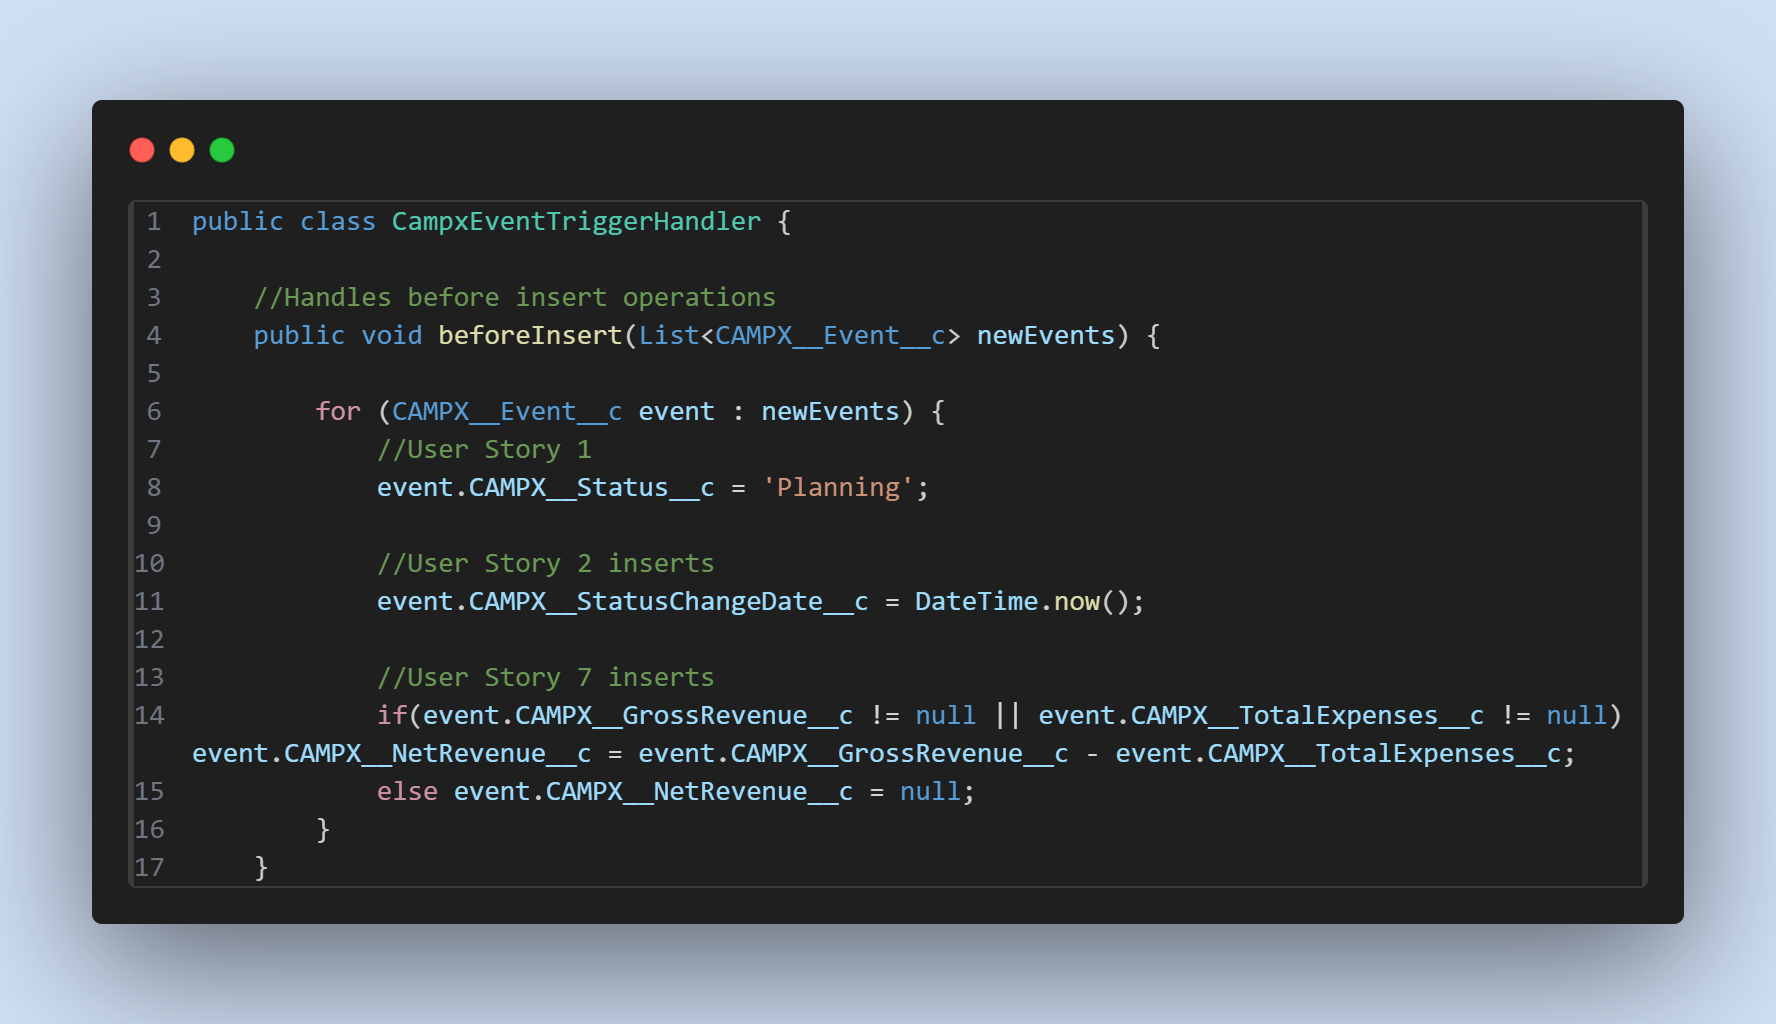
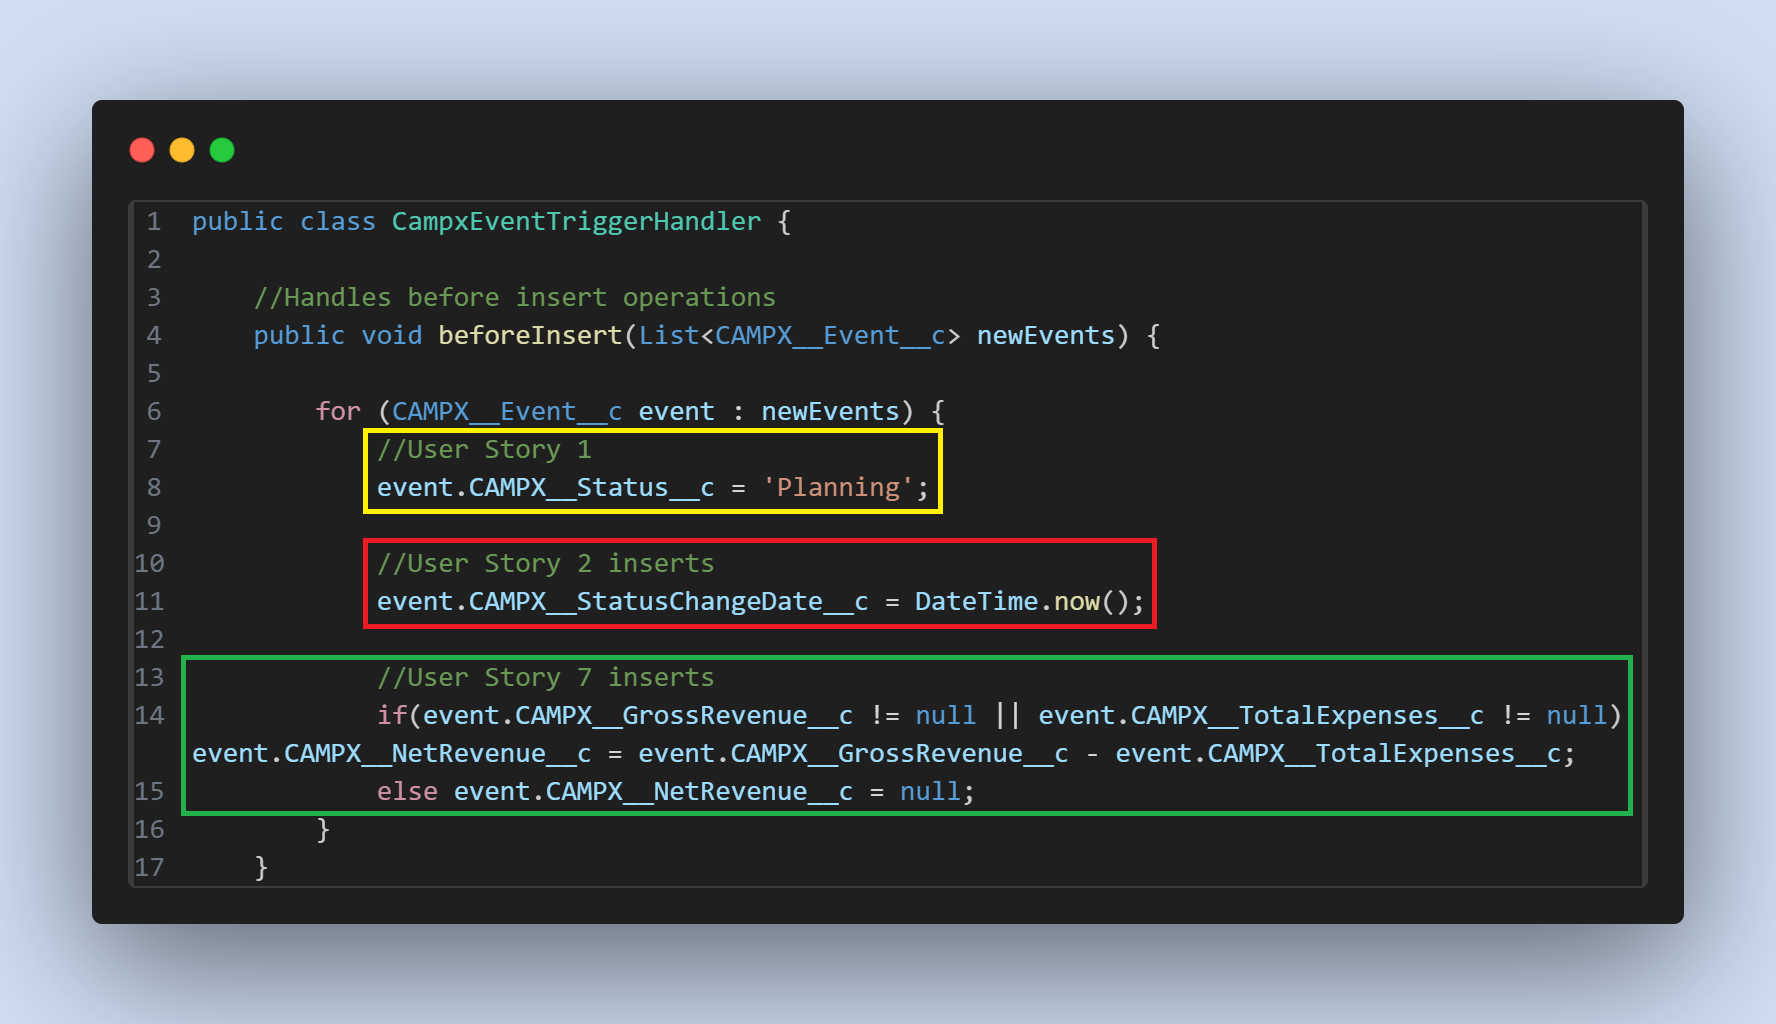
First additions to the Salesforce Developer Project  page

diff --git a/Main/HTML/SalesforceDeveloperProjects.html b/Main/HTML/SalesforceDeveloperProjects.html
@@ -11,209 +11,65 @@
   <body>
     <header>
       <a href="..\..\index.html">Back</a>
-      <h1>My Journey as a Salesforce Developer</h1>
-      <h3>Tab Under Construction</h3>
-      <!--<ol id="contents_table">
-        <li><a href="#Transactional-Function">Transactional Function within Salesforce Org</a></li>
-        <li><a href="#goaling">Transitioning Goaling into Salesforce Org (Active Project)</a></li>
-        <li><a href="#Personnel-Record">Personnel Management Integrated into Salesforce Org</a></li>
-        <li><a href="#on-or-off-production">National NCO Dashboard with On/Off Production Functionality</a></li>
+      <h1>Apex Projects</h1>
+      <h3>EventCloud - Event Management System</h3>
+      <ol id="contents_table">
+        <li><a href="#Project-Overview">Project Overview</a></li>
+        <li><a href="#User-Story1">User Story 1: Initializing Event Status upon Creation</a></li>
+        <li><a href="#User-Story2">User Story 2: Capturing Event Status Change Timestamp</a></li>
+        <li><a href="#on-or-off-production">User Story 3: Defaulting Sponsor Status to 'Pending' on Creation</a></li>
+        <li><a href="#on-or-off-production">User Story 4: Enforcing Email Requirements for Sponsor Creation</a></li>
+        <li><a href="#on-or-off-production">User Story 5: Updating Sponsor Tier Based on Contribution Amount</a></li>
+        <li><a href="#on-or-off-production">User Story 6: Conditional Sponsor Status Update Based on Event Association</a></li>
+        <li><a href="#on-or-off-production">User Story 7: Automatic Update of Net Revenue on Financial Changes</a></li>
+        <li><a href="#on-or-off-production">User Story 8: Updating Event Gross Revenue upon Sponsor Acceptance</a></li>
+        <li><a href="#on-or-off-production">User Story 9: Adjusting Event Gross Revenue for Cancelled Sponsorships or Event Changes</a></li>
       </ol>
     </header>
     <article>
-      <h2 class="project-title" id="Transactional-Function">Transactional Function within Salesforce Org</h2>
-      <h3>The Problem</h3>
-      <p>One of Navy Recruiting Command's (NRC) legacy systems, PRIDE, is a transactional system. This means that throughout the life cycle of an applicant's 
-        onboarding journey with the Navy, PRIDE logs it. It keeps a log of when they joined the Navy and what their job, onboarding start date and ship date
-        are and any changes that may occur to the applicant or their status like changing of jobs, changing of ship dates or even cancelling their contract
-        all together. The problem is with NRC's Salesforce Org, it is NOT transactional like PRIDE is. That means every message PRIDE sends into Salesforce 
-        to update an applicant, the previous data is lost. If a job changes, the previous job is lost and same for ship dates. My task was to create a 
-        transactional feature within Salesforce to mirror PRIDE</p>
-        <h3>The Solution</h3>
-        <p>At the time, NRC was not utilizing Salesforce's Out-of-the-Box Opportunity object yet. My proposal was to bring in Opportunities since they
-          are so closesly tied with Accounts (which NRC uses as Person Accounts to keep applicant records). I made it transactional by utilizing 5 different
-          flows, each being a record triggered flow.</p>
-        <img id="transaction_related_list" src="..\Images\Opportunity Related List.PNG">
-        <h3>The Flows</h3>
-        <img class="transaction_flow" src="..\Images\Onboarding Transaction Flow.PNG">
-        <img class="transaction_flow" src="..\Images\Reclass Transaction Flow.PNG">
-        <img class="transaction_flow2" src="..\Images\Roll-In-Out Transaction Flow.PNG">
-        <img class="transaction_flow" src="..\Images\Ship Transaction Flow.PNG">
-        <img class="transaction_flow2" src="../Images/Attrite Transaction Flow.PNG">
-        <table>
-          <tr>
-            <th><strong>Flow Name</strong></th>
-            <th><strong>Description</strong></th>
-          </tr>
-          <tr>
-            <td>Create Onboarding Transaction</td>
-            <td>This flow is triggered when an Applicant record is either created or updated 
-              to meet a Status of "Onboarding." It then gathers the necessary information from
-              the applicant record and creates an "Onboarding Transaction" record with all the
-              necessary information for trends analysis and health of the Delayed Entry Program
-              (DEP) analysis.</td>
-          </tr>
-          <tr>
-            <td>Create Reclass Transaction</td>
-            <td>This flow is triggered when an Applicant record's Program and Rate field is 
-              changed. When the change happens, however, the record needs to be in Status of 
-              "Onboarding" and the previous value of Program and Rate is NOT blank. This flow 
-              will capture BOTH the previous value for Program and Rate and the new value entered
-              for Program and Rate and enter both of them into a "Reclassification Transaction" record
-              along with other metrics used for analysis.</td>
-          </tr>
-          <tr>
-            <td>Create Roll-In/Roll-Out Transaction</td>
-            <td>This flow is triggered when an Applicant record's Enlisted Ship Date field is 
-              changed. When this change happens, however, the record needs to be in a Status of
-              "Onboarding" and the previous value of the Enlisted Ship Date field is NOT blank. 
-              Once this flow is triggered, it then needs to decide if it will be creating a 
-              "Roll-In Transaction" or a "Roll-Out Transaction." This is done by comparing the 
-              previous value for Enlisted Ship Date and the new value. If the previous value is 
-              greater than the new value, this would indicate an earlier Enlisted Ship Date meaning
-              the applicant is "Rolling In." If the previous value is lesser than the new value, this 
-              would indicate the applicant is "Rolling Out."
-            </td>
-          </tr>
-          <tr>
-            <td>Create Ship Transaction</td>
-            <td>This flow is triggered when an Applicant record's Status 
-              is changed to "Shipped." When this flow is ran, it takes 
-              pertinent data from the Applicant record to create a "Ship 
-              Transaction" record for analysis in shipping trends and 
-              seats being filled at bootcamp.</td>
-          </tr>
-          <tr>  
-            <td>Attrite Transaction Decide</td>
-            <td>This flow is triggered when the Applicant record's Status 
-              is changed to "Attrite." When an applicant "Attrites" it 
-              means they decided to quit their contract and not pursue going 
-              to bootcamp and becoming a Sailor anymore. This flow will gather 
-              necessary Attrite data from the applicant's record and create an 
-              "Attrite Transaction" record. Attrite trends are monitored very 
-              closely as the the Navy's many fleets can't be manned if Future 
-              Sailors don't ship off to bootcamp.</td>
-          </tr>
-        </table>
-        <br>
+      <h2 class="project-title" id="Project-Overview">Project Overview</h2>
+      <p>The idea behind this project is to be able to successfully solution through
+      the given problems throughout the User Stories. Each User Story is well written
+      comes with Acceptance Criteria and specific tests to verify your solution works. 
+      This project places you in the shoes of a "new hire" at EventCloud and gives you
+      the freedom to take the "clicks not code" approach, or dive into Apex and solution
+      through on the "back end". I chose to work through each User Story strictly with 
+      Apex Triggers and TriggerHandler classes. Below are the two Triggers I wrote following
+      the Trigger Handler Framework Salesforce recommends.</p>
+        <div id="Apex-Container">
+          <img id="Trigger" src="..\Images\CampxEventTrigger.PNG">
+          <img id="Trigger" src="..\Images\CampxSponsorTrigger.PNG">
+        </div>
+    </article>
+    <article>
+      <h2 class="project-title" id="User-Story1">User Story 1 (Yellow): Initializing Event Status upon Creation</h2>
+      <h3>User Story</h3>
+      <p>As an event coordinator,<br>
+      I need the system to automatically place a newly created event record into a planning status,<br>
+      So that we can start the event organization process with a clear, initial state that indicates 
+      the event is in the early stages of planning.</p>
+      <h3>Acceptance Criteria</h3>
+      <p>When a new CAMPX__Event__c record is created, the CAMPX__Status__c field should reflect the 
+        "Planning" picklist value</p>
+      <div id="Apex-Container">
+          <img id="Event-beforeInsert" src="..\Images\CampxEventTriggerHandler beforeInsert Method.png">
+      </div>  
+    </article>
+    <article>
+      <h2 class="project-title" id="User-Story2">User Story 2 (Red): Capturing Event Status Change Timestamp</h2>
+      <h3>User Story</h3>
+      <p>As an event coordinator,<br>
+        I need the system to automatically capture the current date and time whenever the status of an event changes,<br>
+        So that we can have an accurate and automatic record of when each event's status was last modified, helping in 
+        timeline tracking and accountability.</p>
+      <h3>Acceptance Criteria</h3>
+      <p>When the CAMPX__Status__c field of an CAMPX__Event__c record is edited, the CAMPX__StatusChangeDate__c 
+        field should capture the current date and time</p>
+        <div id="Apex-Container">
+          <img id="Event-beforeInsert" src="..\Images\CampxEventTriggerHandler beforeInsert Method.png">
+          <img id="Event-beforeUpdate" src="..\Images\CampxEventTriggerHandler beforeUpdate Method.png">
+        </div>
         <a href="#contents_table">Back to Top</a>
     </article>
-    <article>
-      <h2 class="project-title" id="goaling">Transitioning Goaling into Salesforce Org (Active Project)</h2>
-      <h3>The Problem</h3>
-      <p>This is the first part to a series of transitions that will eventually take the legacy NRC system called WebSTEAM into retirement. The first, and one of the biggest, aspects of this 
-        system is tracking the goal assigned to each command. Every Station, known as NRS Name, all the way up to NRC will have a goal assigned to them for each month of the fiscal year. This 
-        needs to be brought into Salesforce to present cleanly to top echelon leadership how each command is doing and if NRC will make its assigned goal and missions for the fiscal year.</p>
-      <h3>The Solution</h3>
-      <p>I went ahead and created a series of five new custom objects. Those are "NRS Goal", "Division Goal", "NTAG Goal", "Region Goal" and "NRC Goal". Each, as the object name should suggest 
-        will track either a station, division, NTAG, region or NRCs goal for any given month. NRS Goal is linked via Master-Detail Relationship to Division Goal, Division Goal is linked via 
-        another Master-Detail Relationship to NTAG Goal and NTAG goal is linked by the last Master-Detail Relationship in the chain to Region Goal. Due to the limitation of 3 Master-Detail 
-        Relationship links within a chain, I created two Lookup Relationship fields on the NRC Goal object. The first one is labelled "Region East Goal" and the second one "Region West Goal". 
-        The NRS Goal record is really the only record that will have the majority of data entered into it when creating a new record. Upon creation, each commands Statistician will have to enter 
-        a number for the station's Total Goal, Active Duty goal, Reserve goal, Nuclear contract goal, Special Warfare contract goal and a goal for contracts that got higher than a 50 on the ASVAB. 
-        After all of that is inputted, a series of Roll-Up Summary fields on the rest of the objects except for NRC Goal is utilized to calculate that respective records number for that goal. On 
-        the NRC Goal object, everything that could NOT be a Roll-Up Summary field was a Formula field instead adding up each field from the "Region East Goal" and "Region West Goal" records. A 
-        series of flows is also utilized for this solution to calculate contract attainment and goaling record association.</p>
-      <img class="goal_records" src="..\Images\NRS Goal Record.PNG">
-      <br>
-      <img class="goal_records" src="..\Images\Division Goal Record.PNG">
-      <br>
-      <img class="goal_records" src="..\Images\NTAG Goal Record.PNG">
-      <br>
-      <img class="goal_records" src="..\Images\Region Goal Record.PNG">
-      <br>
-      <img class="goal_records" src="..\Images\NRC Goal Record.PNG">
-      <h3>The Flows</h3>
-      <table>
-        <tr>
-          <th><strong>Flow Name</strong></th>
-          <th><strong>Description</strong></th>
-        </tr>
-        <tr>
-          <td>Assign NRS Goal to Transaction</td>
-          <td>This flow is triggered when an Opportunity record is created with a Type equalling either "NCO" or "Attrite". After it's triggered, it will decide on which NRS Goal record 
-            to get based on the Type of Opportunity. If it was "NCO", it grabs the the NRS Goal record with the same RSID as the Opportunity record, and the same month and fiscal year as 
-            the Onboarding Start Date field. If it was "Attrite", it does the same thing except based on the Attrite Date field. After it gets the necessary data from the Opportunity and 
-            NRS Goal records, it updates the correct Opportunity record with the correct NRS Goal record ID to associate the Lookup relationship.
-          </td>
-        </tr>
-        <tr>
-          <td>NRS Goal Number Crunch</td>
-          <td>This flow, like the last one, is triggered when an Opportunity record is created, however the Type must either be "NCO", "Attrite" or "Reclassification". IT then makes the decision 
-            on which NRS Goal record to get based on the Type of Opportunity. If the Type is "NCO", it gets the NRS Goal record based off the RSIDs matching for both records and the month and 
-            fiscal year from the Onboarding Start Date field matching the NRS Goal records. Once the record is retrieved, it will add whatever the kind of contract the Opportunity record is with 
-            whatever is currently within the Attainment fields on the NRS Goal record. This is done based on a series of IF statements nested with other IF statements, AND statements and OR 
-            statements. The next decision branch is based off of the Type "Reclassification" which will match the record based off of RSID and the month and fiscal year of the Transaction Date. 
-            The last decision branch is based off of the Type "Attrite" where it compares the RSIDs of both records and the month and fiscal year of the Attrite Date field. This branch is similar 
-            to the "NCO" branch except is subtracts numbers instead of adding them. The "Reclassification" branch does both adding and subtracting based on the contract type. After the specific 
-            branch has ran, it will take the Record ID from the NRS Goal retrieved and update the Attainment number fields with the variables filled in by the respective formulas.
-          </td>
-        </tr>
-        <tr>
-          <td>Same Day Transaction Goal Number Crunch</td>
-          <td>This flow is triggered when an Opportunity record is DELETED with a type of "NCO". It will perform pretty much the same function as the "Attrite" branch from the previous flow and 
-            subtract whatever contract data necessary from the NRS Goal's Attainment number field. This is important because when a Same Day Transaction occurs, an Attrite Transaction is not 
-            created. Instead, that flow actually deletes the NCO Transaction that was previously created minutes before the Attrite message was received by Salesforce.
-          </td>
-        </tr>
-      </table>
-      <br>
-      <div id="goal_flow_pics">
-        <img id="branch2" src="..\Images\Assign NRS Goal to Transaction Flow.PNG">
-        <img id="branch3" src="..\Images\NRS Goal Number Crunch Flow.PNG">
-        <img id="branch1" src="..\Images\Same Day Transaction Flow.PNG">
-      </div>
-      <br>
-      <a href="#contents_table">Back to Top</a> 
-    </article>
-    <article>
-      <h2 class="project-title" id="Personnel-Record">Personnel Management Integrated into Salesforce Org</h2>
-      <!--Insert screenshot of a Personnel Record--
-      <h3>The Problem</h3>
-      <p>NRC was using an outdated and barely used legacy system to keep track 
-        of personnel assigned to Recruiting Command. Since the system was 
-        antiquated, NRC requested a Personnel Management functionality be developed 
-        within the current Org they operate in.</p>
-      <h3>The Solution</h3>
-      <p>Due to some limitations within government contracting and MOUs, my team 
-        doesn't usually conduct development using standard objects, except in rare 
-        and highly scrutinized occasions. For this project, I built a custom object 
-        called "Personnel Records" where we would capture all the required data needed 
-        on personnel assigned to Recruiting Command. This wasn't a very intricate project 
-        outside of designing the Lightning Page for the object which encapsulates 
-        different field visibility based on data within other fields.</p>
-        <p>Shortly after demoing this new custom object, there arose another need 
-          with this request. Inspection teams required a historical report of where 
-          a recruiter was assigned during a certain period of time. This requiest led 
-          to the development of a rear facing "PSR History" custom object. Since it's 
-          rear facing, users don't have access to the actual object outside of a related 
-          list on the "Personnel Record" record. PSR History records are created via 
-          a record triggered flow that will capture all the data from a Personnel Record 
-          record whenever it's updated or created. This creates a historical feature to 
-          the object that helps during investigations and discussions of manning and where 
-          place recruiters throughout the nation.</p>
-        <!--Insert a screenshot of the history related list--
-        <a href="#contents_table">Back to Top</a>
-    </article>
-    <article>
-      <h2 class="project-title" id="on-or-off-production">National NCO Dashboard with On/Off Production Functionality</h2>
-      <h3>The Problem</h3>
-      <p>The point of having a National NCO dashboard is for upper level leadership at NRC 
-        Headquarters to be able to have a one stop shop for how commands throughout the nation 
-        are doing on achieving their goals. This dashboard breaks it down by command, division 
-        and individual recruiter. The problem was with the fact that there was no easy way of 
-        getting a recruiter off that dashboard if there was any reason for them to be off production 
-        for any period of time. They would have to submit a ticket to get their role and territory 
-        elevated to the command level to get them off the dashboard.</p>
-        <h3>The Solution</h3>
-        <p>With the development of the "Personnel Record" custom object, there was a picklist field 
-          created called "On Production." If the recruiter was on production, the field was marked yes
-          and if not, it was marked no. The new National NCO Dashboard's reports were now given a filter
-          that the records featured in those reports needed to have their associated Personnel Record as 
-          being On Production. With the addition of this filter, now commands simply needed to go into 
-          that recruiter's Personnel Record and mark their "On Production" field as no until their return 
-          and they were no longer featured on the dashboard.</p>
-          <a href="#contents_table">Back to Top</a>
-    </article>-->
   </body>
 </html>

diff --git a/Main/CSS/SalesforceDeveloperProjects.css b/Main/CSS/SalesforceDeveloperProjects.css
@@ -21,11 +21,25 @@ h1 {
     margin-left: 75px;
     margin-right: 75px;
 }
-#transaction_related_list{
-    display: block;
-    margin: auto;
-    height: 50%;
-    width: 50%;
+#Apex-Container {
+    display: flex;
+    justify-content: center;
+    align-items: center;
+    gap: 60px;
+    width: 100%;
+    margin: 0 auto;
+}
+#Trigger {
+    height: 150px;
+    width: 300px;
+}
+#Event-beforeInsert {
+    height: 150px;
+    width: 300ps;
+}
+#Event-beforeUpdate {
+    height: 150px;
+    width: 500ps;
 }
 .goal_records {
     display: block;
